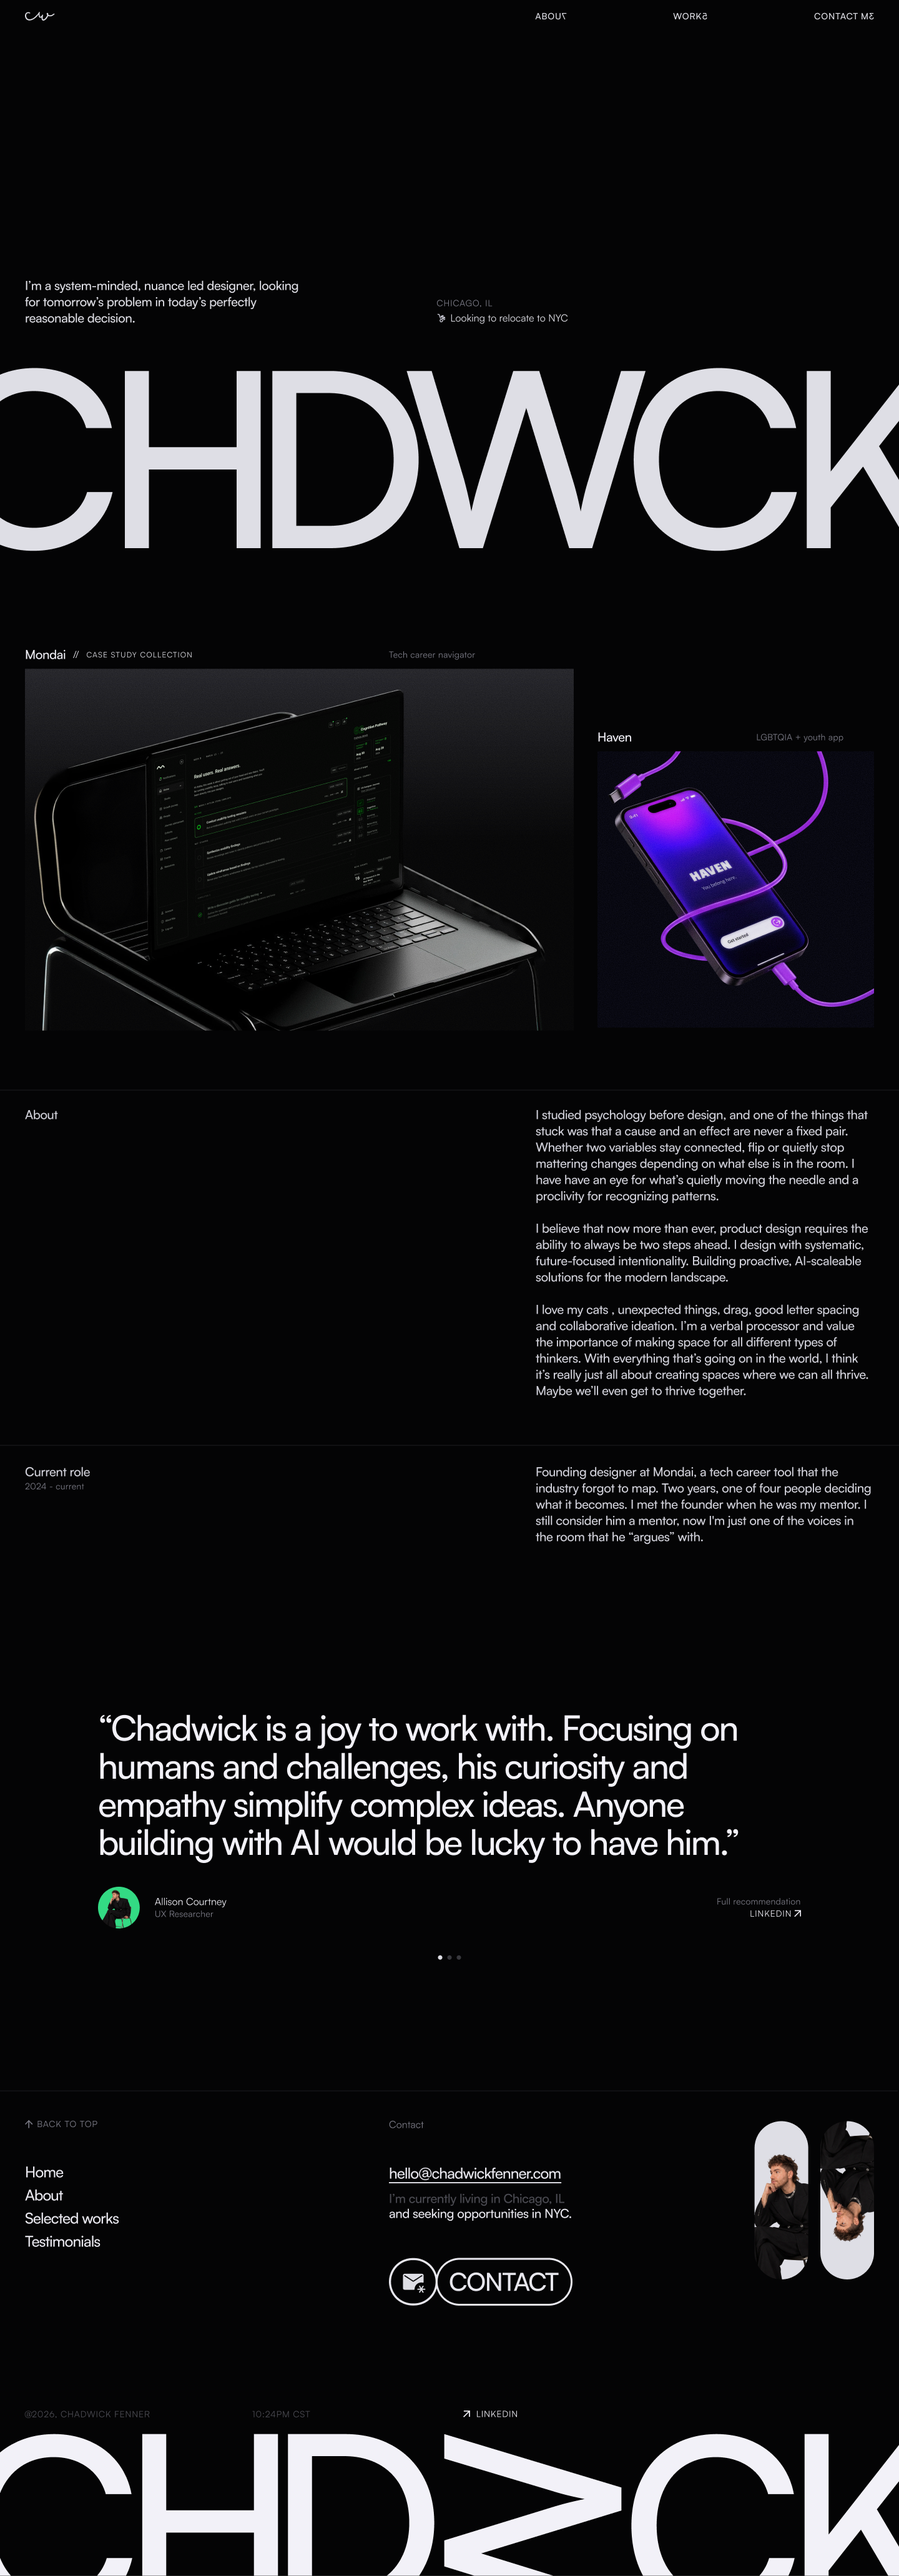
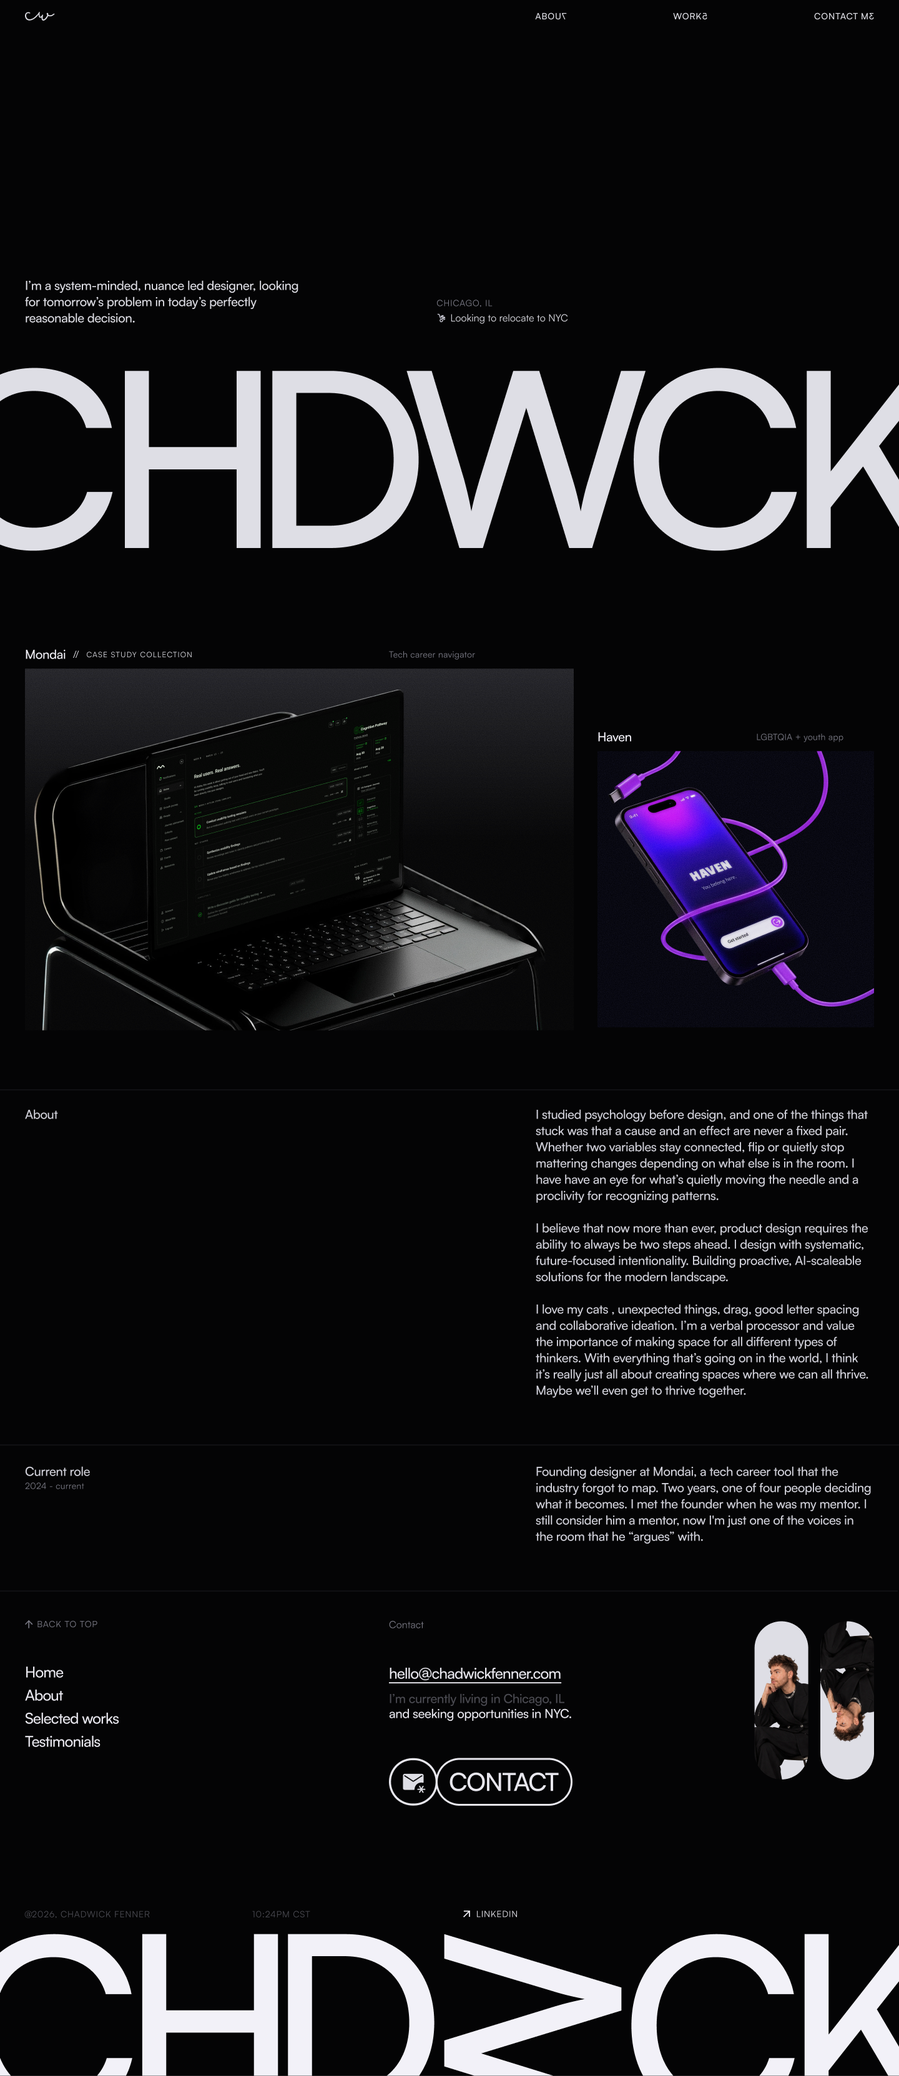
Hide testimonials until he finishes them (his call); footer follows About

diff --git a/site/index.html b/site/index.html
@@ -104,7 +104,7 @@
           <p class="about__body col-7 span-6" data-figma-node="5812:22927">Founding designer at Mondai, a tech career tool that the industry forgot to map. Two years, one of four people deciding what it becomes. I met the founder when he was my mentor. I still consider him a mentor, now I'm just one of the voices in the room that he “argues” with.</p>
         </div>
       </section>
-      <section class="testimonials" id="testimonials" aria-label="Testimonials" data-figma-node="5073:12175">
+      <section class="testimonials" id="testimonials" aria-label="Testimonials" hidden data-hidden-until="he finishes the testimonials" data-figma-node="5073:12175">
         <div class="testimonials__inner grid">
           <figure class="testimonial">
             <blockquote class="testimonial__quote" data-figma-node="5073:12177"><p>“Chadwick is a joy to work with. Focusing on humans and challenges, his curiosity and empathy simplify complex ideas. Anyone building with AI would be lucky to have him.”</p></blockquote>
@@ -136,7 +136,7 @@
                 <li><a class="link-footer" href="#top">Home</a></li>
                 <li><a class="link-footer" href="#about">About</a></li>
                 <li><a class="link-footer" href="#work">Selected works</a></li>
-                <li><a class="link-footer" href="#testimonials">Testimonials</a></li>
+                <li hidden data-hidden-until="he finishes the testimonials"><a class="link-footer" href="#testimonials">Testimonials</a></li>
                   </ul>
                 </div>
                 <div class="footer__contact col-6 span-3">

diff --git a/site/css/home.css b/site/css/home.css
@@ -175,6 +175,7 @@
    percent, -4 percent, Neutral/050; 51 under it the person row (avatar 66.82 on Mondai green, 24 to the
    name at Body/16 and the role at Label/14, 9 apart) with "Full recommendation" and the LinkedIn link
    right aligned; 43 under that, three 7 px dots 8 apart. */
+.testimonials[hidden], .footer__nav li[hidden] { display: none; }
 .testimonials { min-height: 800px; padding-top: 199.5px; background: var(--neutral-900); box-shadow: inset 0 1px 0 var(--neutral-700); }
 .testimonials__inner { align-content: start; }
 .testimonial { grid-column: 2 / span 10; margin: 0; }

diff --git a/docs/FIGMA_SYNC_2026-11-10.md b/docs/FIGMA_SYNC_2026-11-10.md
@@ -208,3 +208,8 @@ Unchanged in the Mobile frames: hero, works, About and footer match the site. Re
   transition band and now carry his 18 Nov Footer variants under it (4659:11955, 4862:14204), so
   `verify-components pixels` passes again. The 1440 suite fails only where it failed before this work
   (framework boxes, Haven body).
+- Later 18 Nov, his call: testimonials is not finished, so the section and its footer link are hidden
+  (`hidden`, `data-hidden-until`), not deleted. The footer follows About at 2548.5. The checks and the
+  reference render (`site/dev/pages/figma/home.png`) leave the section out; R10's build is kept for when
+  he is done. To bring it back: drop the two `hidden` attributes in index.html and restore the 18 Nov
+  testimonial rows in the checks.
